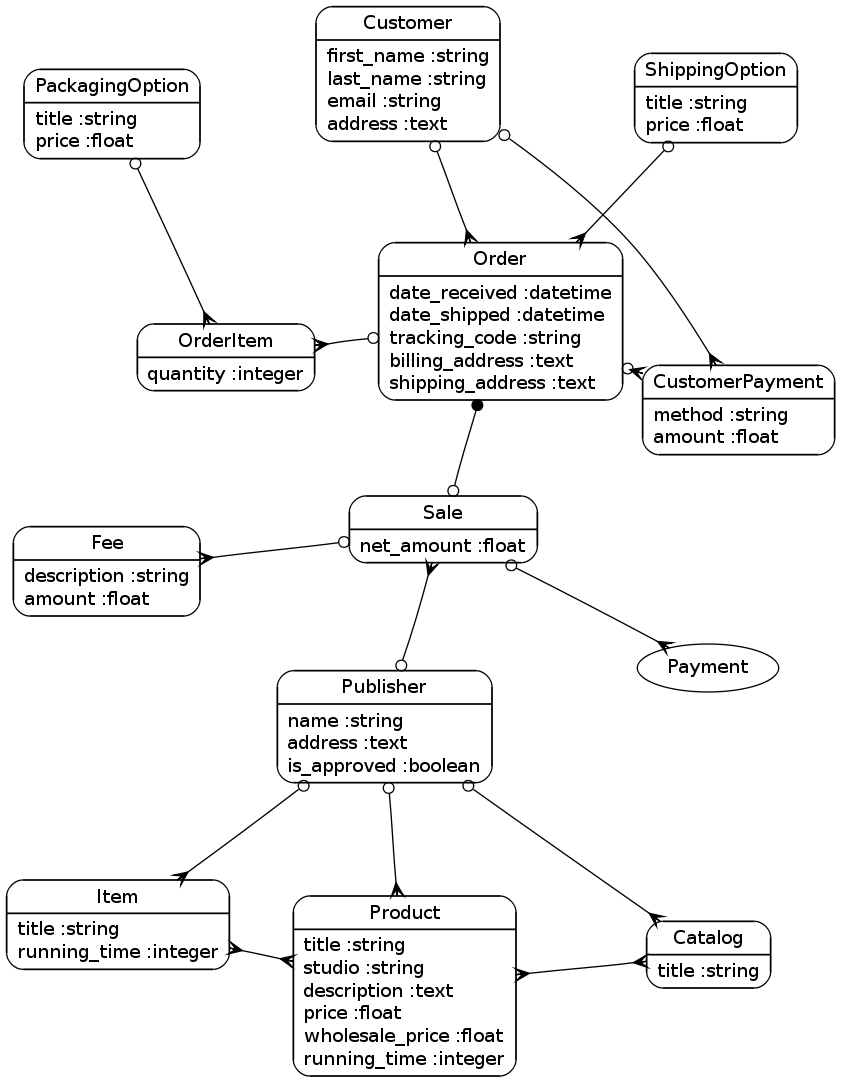
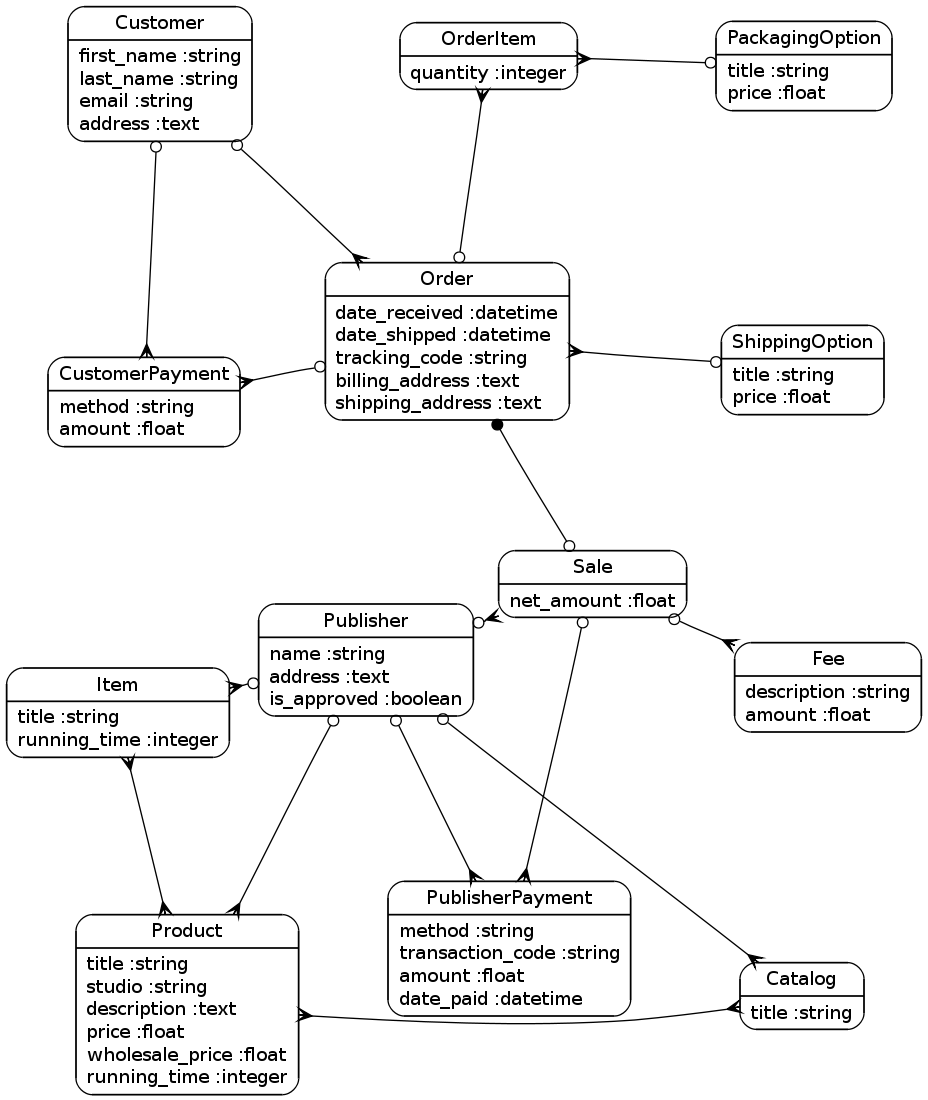
finally, added PublisherPayment resource; updated models.png

diff --git a/config/routes.rb b/config/routes.rb
@@ -1,4 +1,5 @@
 ActionController::Routing::Routes.draw do |map|
+
   map.resources :fees
 
   map.resources :shipping_options
@@ -22,6 +23,7 @@ ActionController::Routing::Routes.draw do |map|
     end
     publisher.resources :items
     publisher.resources :sales
+    publisher.resources :publisher_payments
   end
 
   # The priority is based upon order of creation: first created -> highest priority.

diff --git a/db/migrate/20100929235130_create_publisher_payments.rb b/db/migrate/20100929235130_create_publisher_payments.rb
@@ -1,0 +1,18 @@
+class CreatePublisherPayments < ActiveRecord::Migration
+  def self.up
+    create_table :publisher_payments do |t|
+      t.string :method
+      t.string :transaction_code
+      t.float :amount
+      t.datetime :date_paid
+      t.references :publisher
+      t.references :sale
+
+      t.timestamps
+    end
+  end
+
+  def self.down
+    drop_table :publisher_payments
+  end
+end

diff --git a/db/migrate/20100929231133_create_sales.rb b/db/migrate/20100929231133_create_sales.rb
@@ -2,6 +2,7 @@ class CreateSales < ActiveRecord::Migration
   def self.up
     create_table :sales do |t|
       t.references :publisher
+      t.string :type
       t.float :net_amount
 
       t.timestamps

diff --git a/test/functional/publisher_payments_controller_test.rb b/test/functional/publisher_payments_controller_test.rb
@@ -1,0 +1,8 @@
+require 'test_helper'
+
+class PublisherPaymentsControllerTest < ActionController::TestCase
+  # Replace this with your real tests.
+  test "the truth" do
+    assert true
+  end
+end

diff --git a/test/unit/publisher_payment_test.rb b/test/unit/publisher_payment_test.rb
@@ -1,0 +1,8 @@
+require 'test_helper'
+
+class PublisherPaymentTest < ActiveSupport::TestCase
+  # Replace this with your real tests.
+  test "the truth" do
+    assert true
+  end
+end

diff --git a/app/models/sale.rb b/app/models/sale.rb
@@ -1,6 +1,6 @@
 class Sale < ActiveRecord::Base
   belongs_to :publisher
-  has_many :payments
+  has_many :publisher_payments
   has_many :fees
   has_one :order
 end

diff --git a/app/models/publisher.rb b/app/models/publisher.rb
@@ -3,4 +3,5 @@ class Publisher < ActiveRecord::Base
   has_many :products
   has_many :items
   has_many :sales
+  has_many :publisher_payments
 end

diff --git a/app/models/publisher_payment.rb b/app/models/publisher_payment.rb
@@ -1,0 +1,4 @@
+class PublisherPayment < ActiveRecord::Base
+  belongs_to :publisher
+  belongs_to :sale
+end

diff --git a/test/unit/helpers/publisher_payments_helper_test.rb b/test/unit/helpers/publisher_payments_helper_test.rb
@@ -1,0 +1,4 @@
+require 'test_helper'
+
+class PublisherPaymentsHelperTest < ActionView::TestCase
+end

diff --git a/app/controllers/publisher_payments_controller.rb b/app/controllers/publisher_payments_controller.rb
@@ -1,0 +1,2 @@
+class PublisherPaymentsController < ApplicationController
+end

diff --git a/app/helpers/publisher_payments_helper.rb b/app/helpers/publisher_payments_helper.rb
@@ -1,0 +1,2 @@
+module PublisherPaymentsHelper
+end
